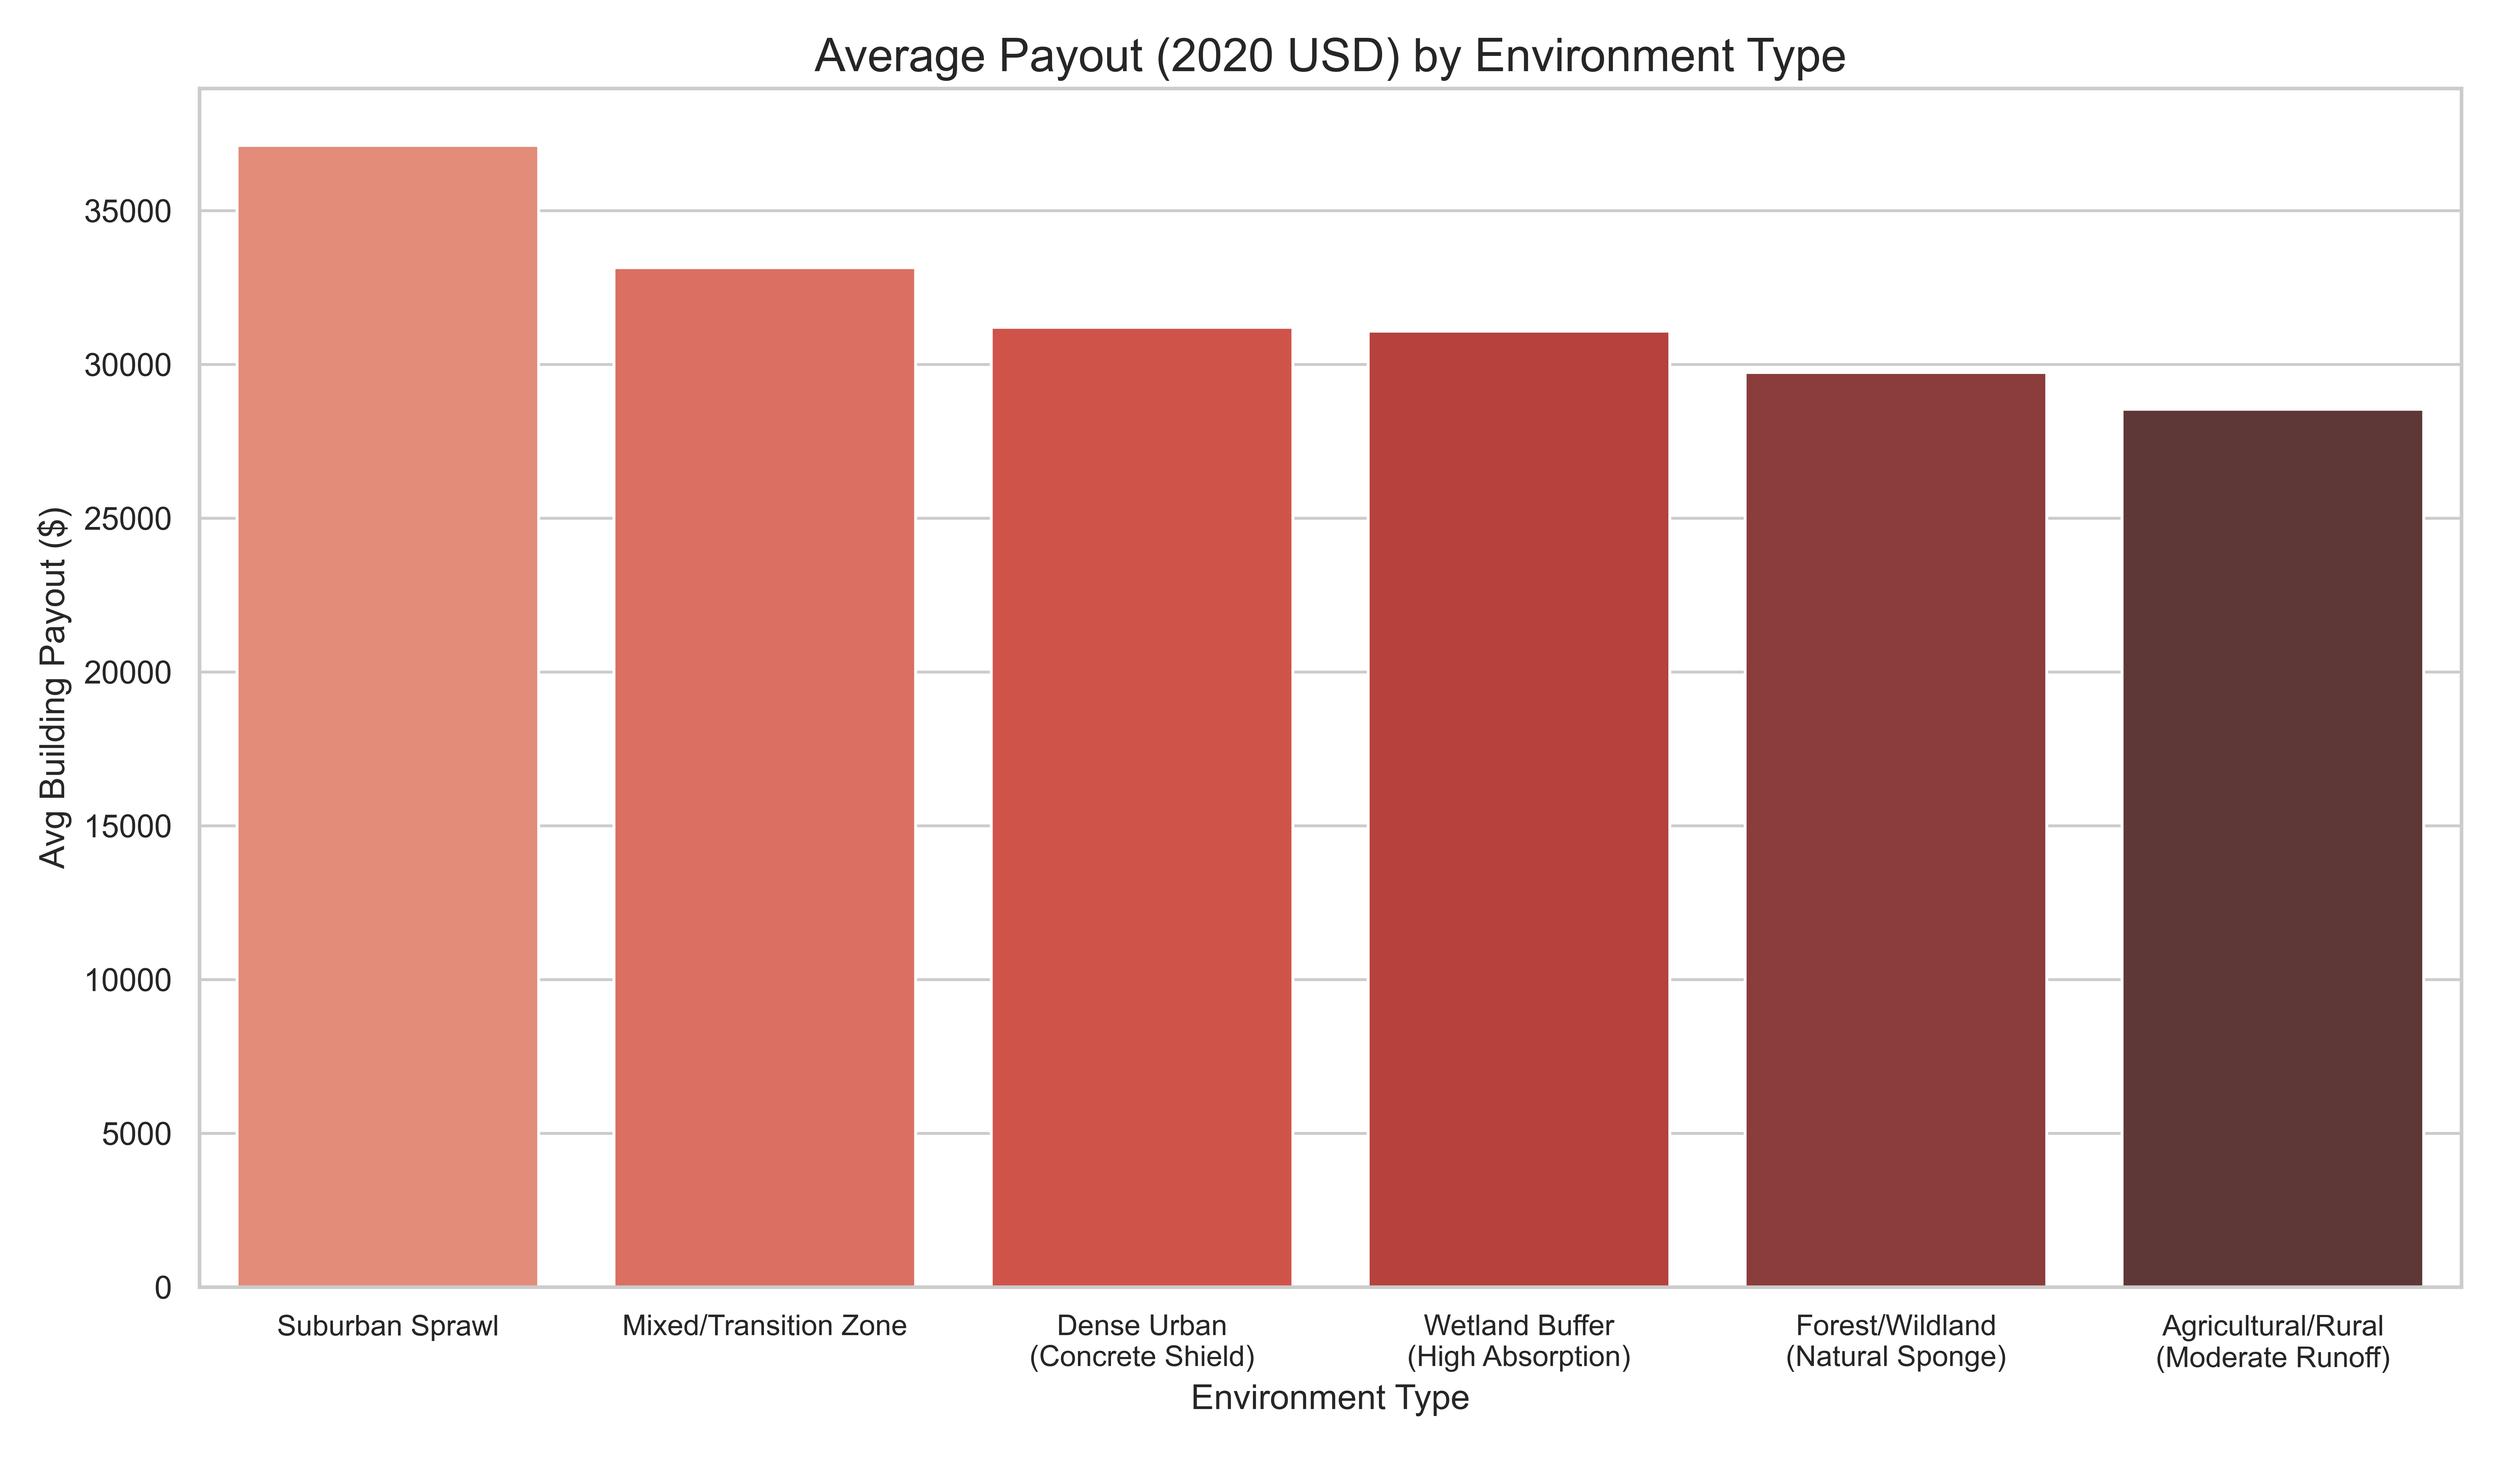
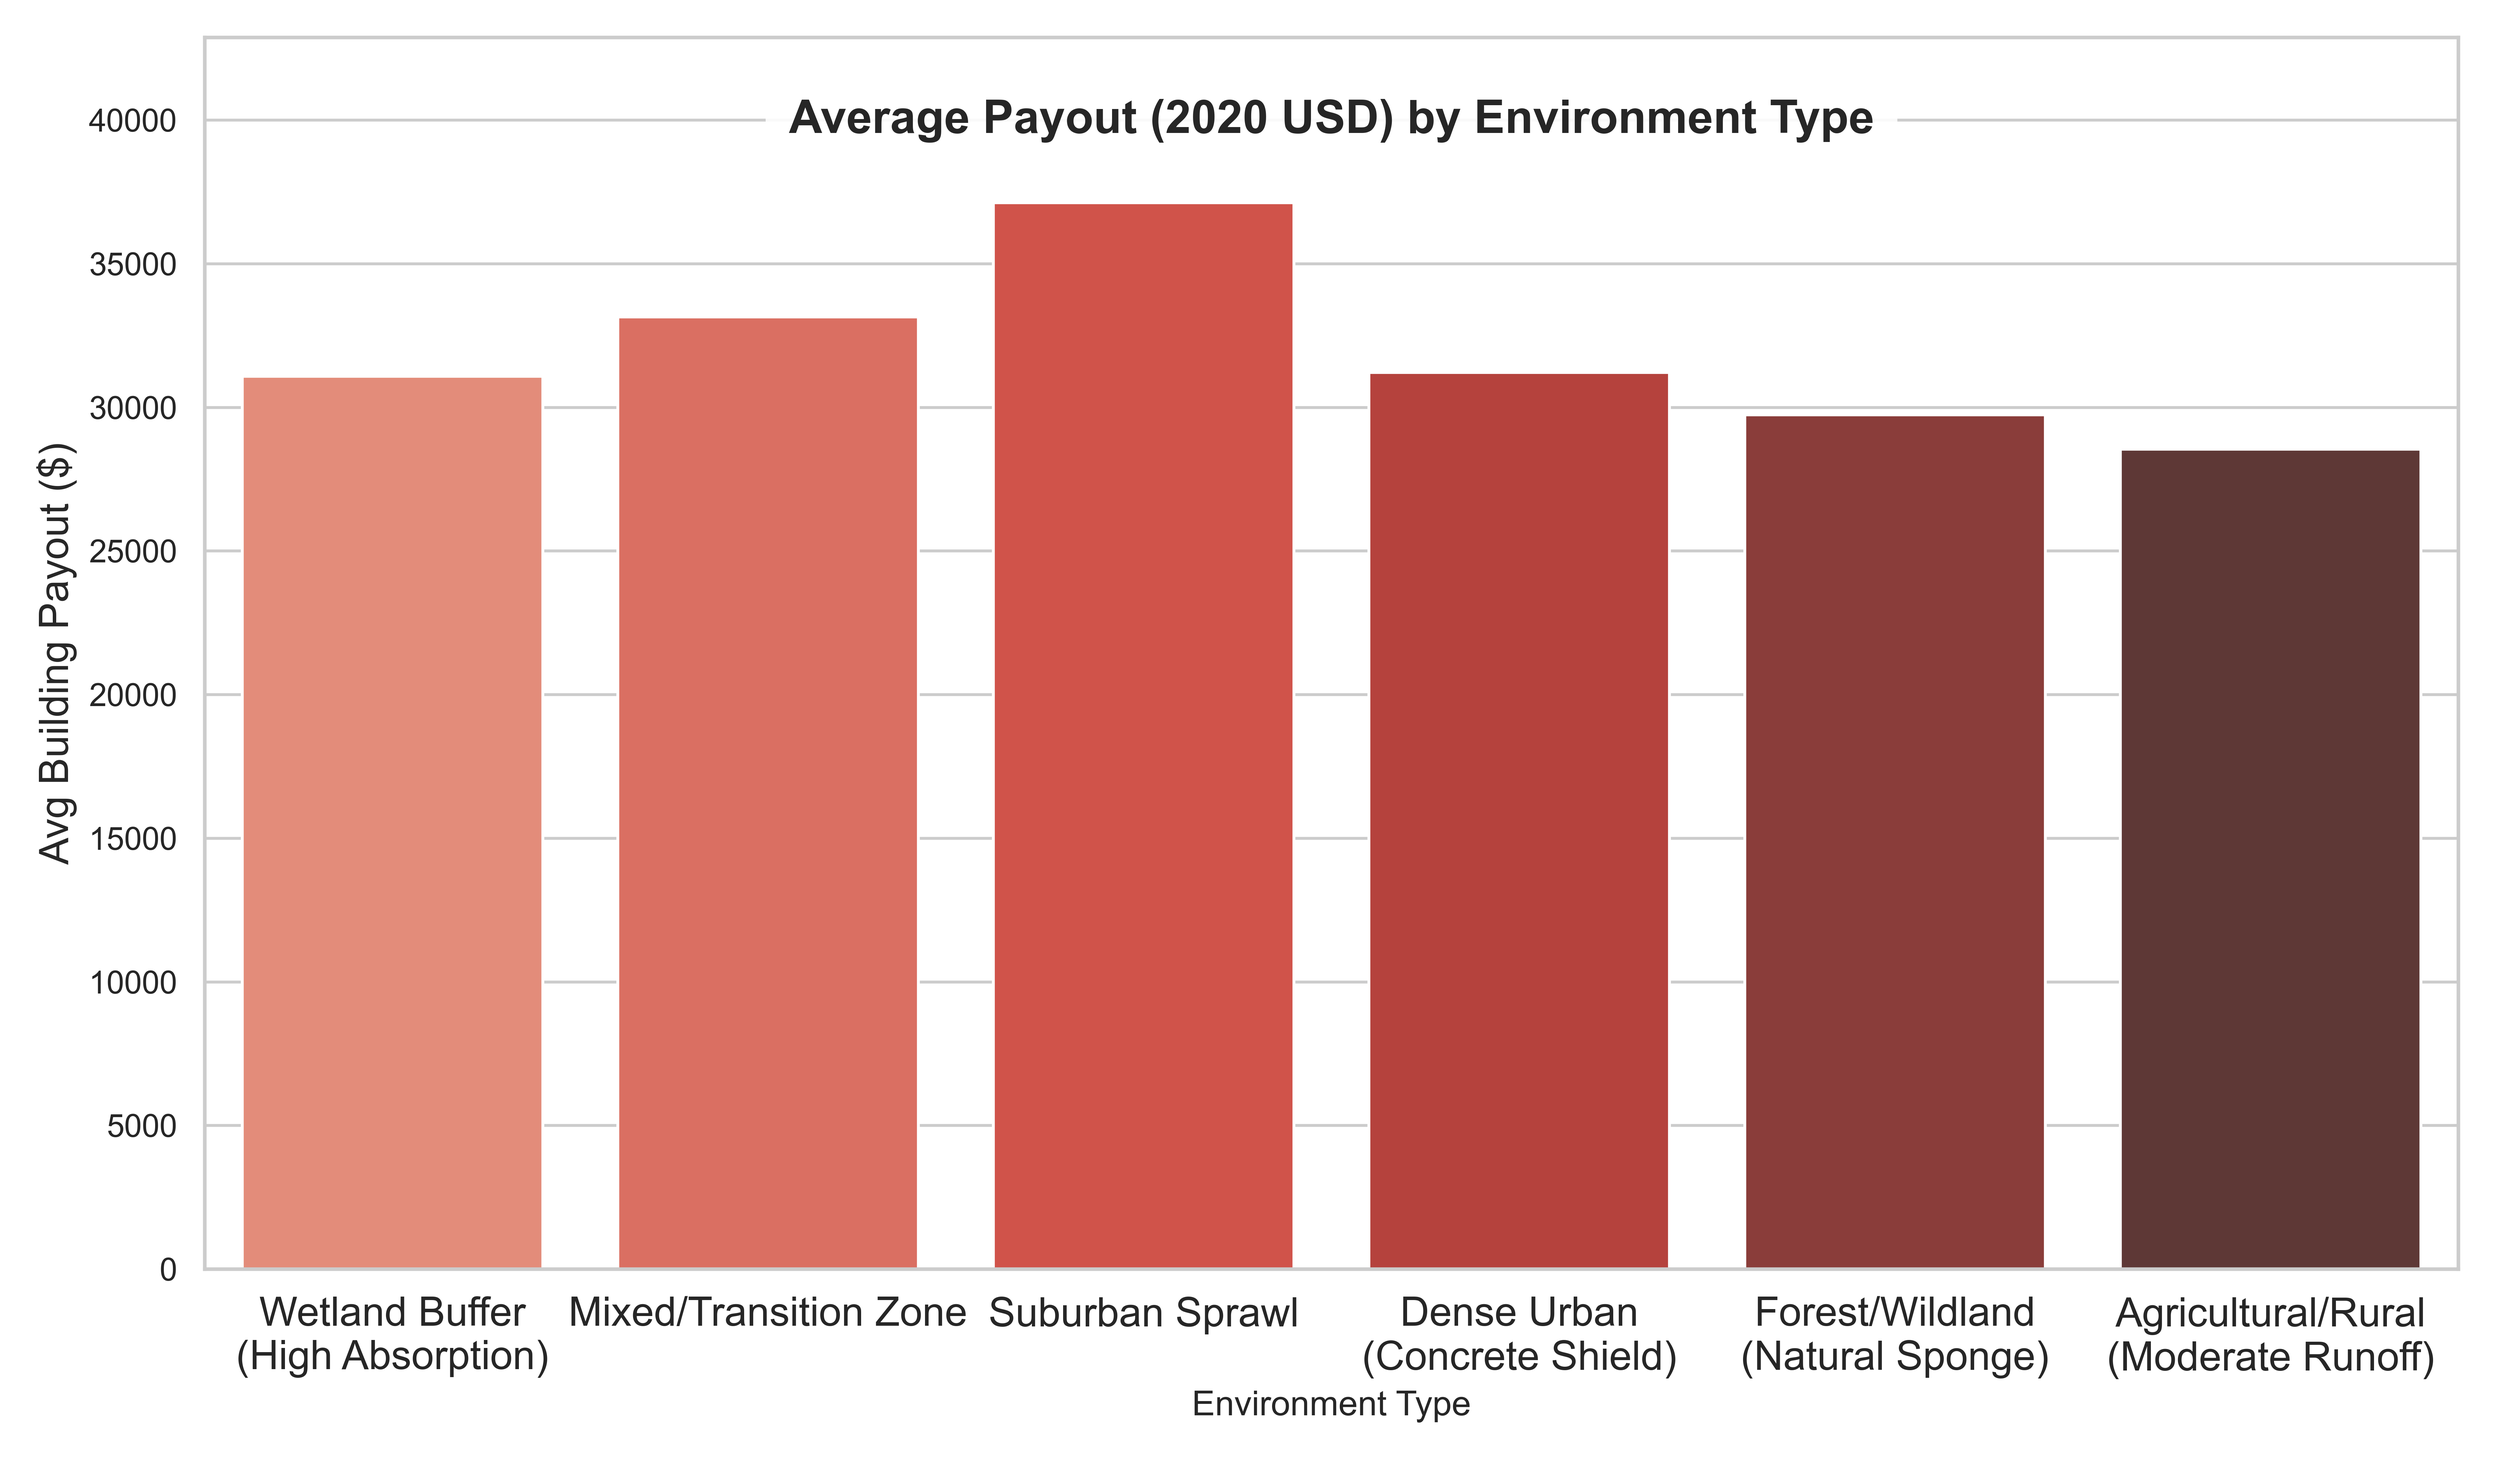
a

diff --git a/Analysis and Charts/control for storms.py b/Analysis and Charts/control for storms.py
@@ -48,30 +48,51 @@ overall_stats = df.groupby('env_label').agg(
     avg_payout_mean=('avg_building_payout_2020_dollars', 'mean')
 ).reset_index()
 
+# Sort both charts by total incidents (descending) to establish a consistent narrative order
+sorted_stats = overall_stats.sort_values(by='total_incidents_sum', ascending=False)
+common_order = sorted_stats['env_label'].tolist()
+
 sns.set_theme(style="whitegrid")
 
 # Figure 1: Total Incidents by Environment Type 
 plt.figure(figsize=(12, 7))
-sns.barplot(data=overall_stats.sort_values(by='total_incidents_sum', ascending=False), 
-            x='env_label', y='total_incidents_sum', palette='Blues_d')
-plt.title('Total Flooding Incidents by Environment Type', fontsize=16)
-plt.ylabel('Total Incident Count', fontsize=12)
+ax1 = sns.barplot(data=overall_stats, x='env_label', y='total_incidents_sum', order=common_order, palette='Blues_d')
+
+# Add title inside the chart
+ax1.text(0.5, 0.95, 'Total Flooding Incidents by Environment Type', 
+         transform=ax1.transAxes, ha='center', va='top', 
+         fontsize=16, weight='bold', 
+         bbox=dict(facecolor='white', alpha=0.9, edgecolor='none', boxstyle='round,pad=0.5'))
+
+plt.ylabel('Total Incident Count', fontsize=14)
 plt.xlabel('Environment Type', fontsize=12)
-# No rotation, let the text wrap with the newlines
-plt.xticks(fontsize=10) 
+plt.xticks(fontsize=14) 
+
+ymin, ymax = ax1.get_ylim()
+ax1.set_ylim(ymin, ymax * 1.1)
+
 plt.tight_layout()
 plt.savefig('total_incidents_env.png', dpi = 600)
 plt.close()
 
 # Figure 2: Avg Payout by Environment Type
 plt.figure(figsize=(12, 7))
-sns.barplot(data=overall_stats.sort_values(by='avg_payout_mean', ascending=False), 
-            x='env_label', y='avg_payout_mean', palette='Reds_d')
-plt.title('Average Payout (2020 USD) by Environment Type', fontsize=16)
-plt.ylabel('Avg Building Payout ($)', fontsize=12)
+ax2 = sns.barplot(data=overall_stats, x='env_label', y='avg_payout_mean', order=common_order, palette='Reds_d')
+
+# Add title inside the chart
+ax2.text(0.5, 0.95, 'Average Payout (2020 USD) by Environment Type', 
+         transform=ax2.transAxes, ha='center', va='top', 
+         fontsize=16, weight='bold', 
+         bbox=dict(facecolor='white', alpha=0.9, edgecolor='none', boxstyle='round,pad=0.5'))
+
+plt.ylabel('Avg Building Payout ($)', fontsize=14)
 plt.xlabel('Environment Type', fontsize=12)
-# No rotation, let the text wrap with the newlines
-plt.xticks(fontsize=10)
+plt.xticks(fontsize=14)
+
+# Adjust y-limit here too
+ymin, ymax = ax2.get_ylim()
+ax2.set_ylim(ymin, ymax * 1.1)
+
 plt.tight_layout()
 plt.savefig('avg_payout_env.png', dpi = 600)
 plt.close()
